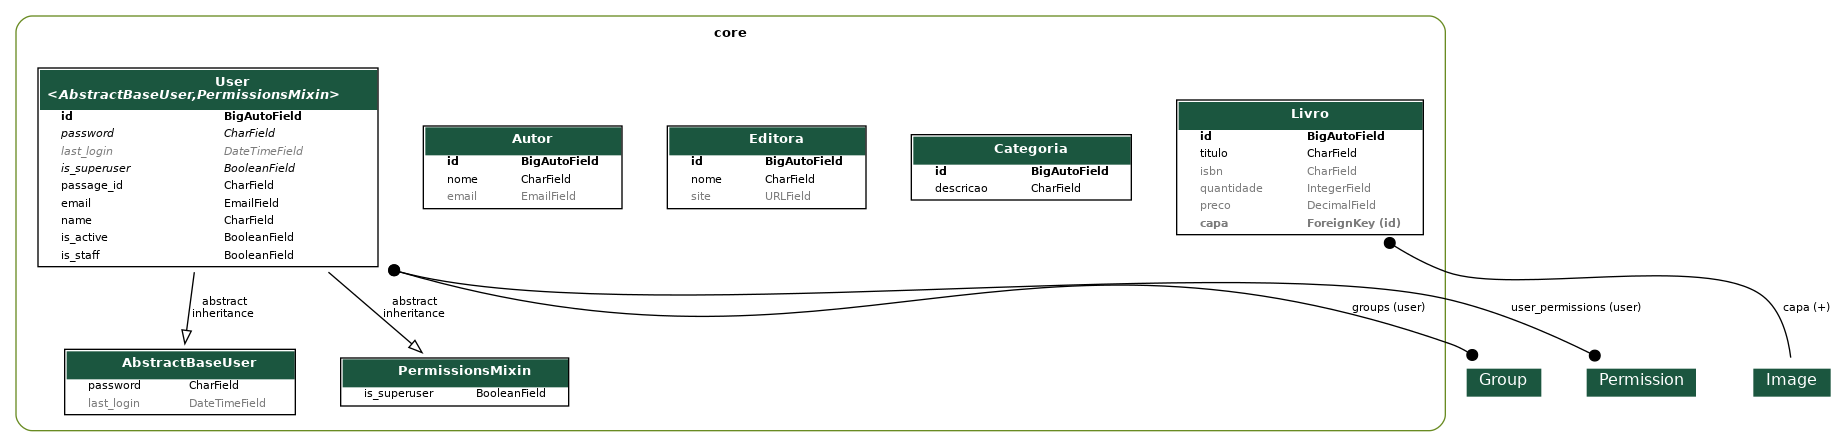
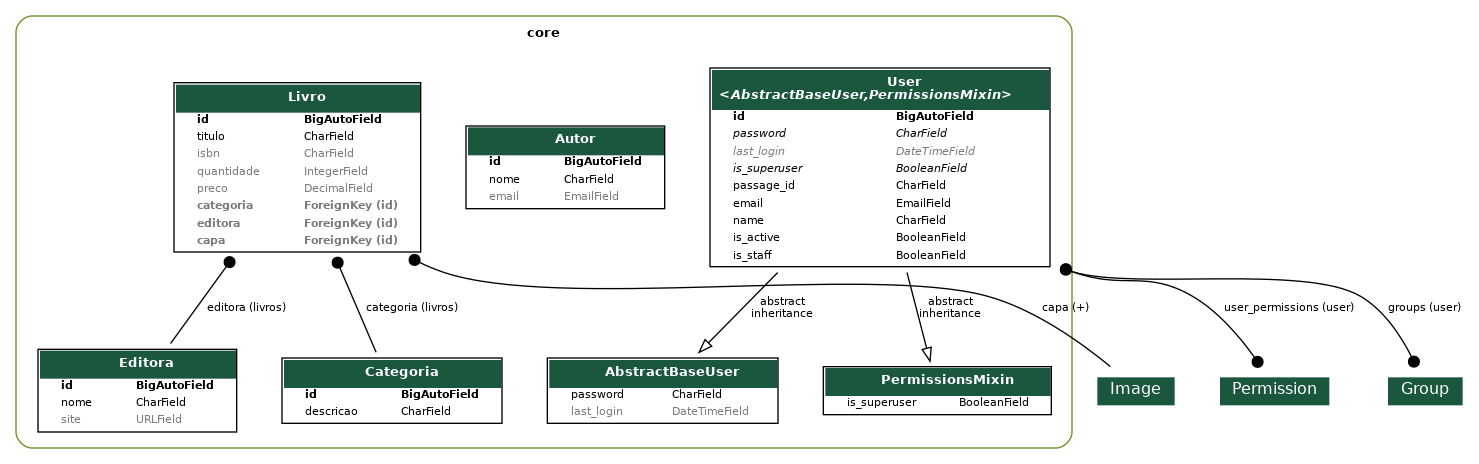
Customização do Admin

diff --git a/core/migrations/0007_livro_categoria_livro_editora.py b/core/migrations/0007_livro_categoria_livro_editora.py
@@ -1,0 +1,36 @@
+# Generated by Django 5.0.6 on 2024-08-26 14:51
+
+import django.db.models.deletion
+from django.db import migrations, models
+
+
+class Migration(migrations.Migration):
+
+    dependencies = [
+        ("core", "0006_livro_capa"),
+    ]
+
+    operations = [
+        migrations.AddField(
+            model_name="livro",
+            name="categoria",
+            field=models.ForeignKey(
+                blank=True,
+                null=True,
+                on_delete=django.db.models.deletion.PROTECT,
+                related_name="livros",
+                to="core.categoria",
+            ),
+        ),
+        migrations.AddField(
+            model_name="livro",
+            name="editora",
+            field=models.ForeignKey(
+                blank=True,
+                null=True,
+                on_delete=django.db.models.deletion.PROTECT,
+                related_name="livros",
+                to="core.editora",
+            ),
+        ),
+    ]

diff --git a/core/models/livro.py b/core/models/livro.py
@@ -1,5 +1,7 @@
 from django.db import models
 from uploader.models import Image
+from .categoria import Categoria
+from .editora import Editora
 
 
 class Livro(models.Model):
@@ -7,6 +9,8 @@ class Livro(models.Model):
     isbn = models.CharField(max_length=32, null=True, blank=True)
     quantidade = models.IntegerField(default=0, null=True, blank=True)
     preco = models.DecimalField(max_digits=7, decimal_places=2, default=0, null=True, blank=True)
+    categoria = models.ForeignKey(Categoria, on_delete=models.PROTECT, related_name="livros", null=True, blank=True)
+    editora = models.ForeignKey(Editora, on_delete=models.PROTECT, related_name="livros", null=True, blank=True)
     capa = models.ForeignKey(
         Image,
         related_name="+",

diff --git a/core/admin.py b/core/admin.py
@@ -1,15 +1,8 @@
-"""
-Django admin customization.
-"""
-
 from django.contrib import admin
 from django.contrib.auth.admin import UserAdmin as BaseUserAdmin
 from django.utils.translation import gettext_lazy as _
 from core import models
 from core.models import Autor, Categoria, Editora, Livro, User
-
-@admin.register(User)
-class UserAdmin(BaseUserAdmin):
 
 @admin.register(Autor)
 class AutorAdmin(admin.ModelAdmin):
@@ -81,10 +74,3 @@ class UserAdmin(BaseUserAdmin):
             },
         ),
     )
-
-
-admin.site.register(models.User, UserAdmin)
-admin.site.register(models.Categoria)
-admin.site.register(models.Editora)
-admin.site.register(models.Autor)
-admin.site.register(models.Livro)
